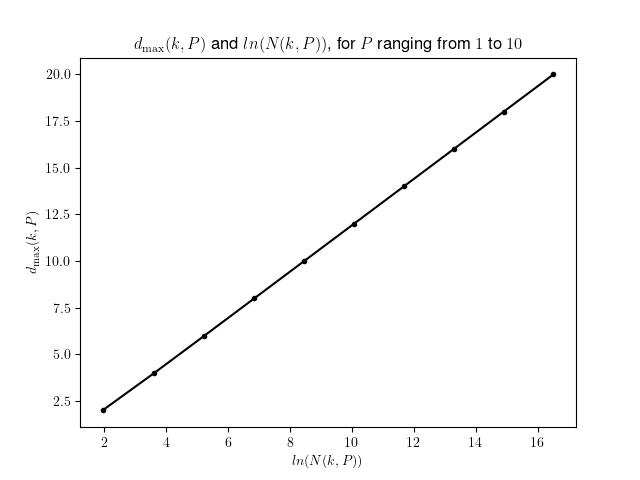
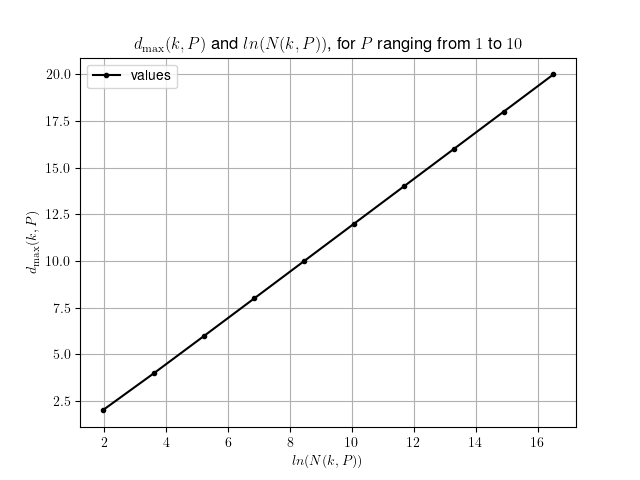
feat: add curve fit to activity_4

diff --git a/activity_4_cayley_tree/cayley_tree.py b/activity_4_cayley_tree/cayley_tree.py
@@ -1,6 +1,7 @@
 import os
 import json
 import numpy as np
+import scipy.optimize
 import matplotlib.pyplot as plt
 import networkx as nx
 from networkx.drawing.nx_pydot import graphviz_layout
@@ -109,21 +110,43 @@ class NDplot:
         self.max_depth = 10
         return
 
+    def _summarize_curve_fit(self, x_name, x, y_name, y):
+        function = lambda x, alpha, beta: alpha * np.log(x) + beta
+        popt, pcov = scipy.optimize.curve_fit(function, x, y)
+        perr = np.sqrt(np.diag(pcov))
+        alpha = popt[0]
+        alpha_error = perr[0]
+        beta = popt[1]
+        beta_error = perr[1]
+        print(f"Curve fit:")
+        print(f"\t{y_name} = f({x_name}) = alpha * ln({x_name}) + beta")
+        print(f"\talpha = {alpha} +- {alpha_error}")
+        print(f"\tbeta = {beta} +- {beta_error}")
+        print("")
+        return lambda x: alpha * np.log(x) + beta
 
     def plot(self) -> None:
         depth_values = np.arange(1, self.max_depth + 1, 1)
-        x = np.log(np.array(list(map(
+        number_of_nodes_array = np.array(list(map(
             lambda d: CayleyTreeProps(degree = self.degree, depth = d).number_of_nodes,
             depth_values
-        ))))
-        y = np.array(list(map(
+        )))
+        diameter_array = np.array(list(map(
             lambda d: CayleyTreeProps(degree = self.degree, depth = d).diameter,
             depth_values
         )))
-        plt.plot(x, y, color="k", linestyle="-", marker=".")
+        curve = self._summarize_curve_fit("N", number_of_nodes_array, "d_{max}", diameter_array)
+        print(f"Plot:")
+        print(f"\tdepth_values = {depth_values}")
+        print(f"\tnumber_of_nodes_array = {number_of_nodes_array}")
+        print(f"\tdiameter_array = {diameter_array}")
+        plt.plot(np.log(number_of_nodes_array), diameter_array, color="k", linestyle="-", marker=".", label="values")
+        # plt.plot(np.log(number_of_nodes_array), curve(number_of_nodes_array), color="gray", linestyle="--", label="curve fit")
         plt.title(r"$d_{\max}(k, P)$ and $ln(N(k, P))$, for $P$ ranging from $1$ to $10$")
         plt.xlabel(r"$ln(N(k, P))$")
         plt.ylabel(r"$d_{\max}(k, P)$")
+        plt.grid(True)
+        plt.legend(loc="best")
         plt.savefig(os.path.join(
             output_dir,
             f"diameter_as_a_function_of_the_number_of_nodes.png",
